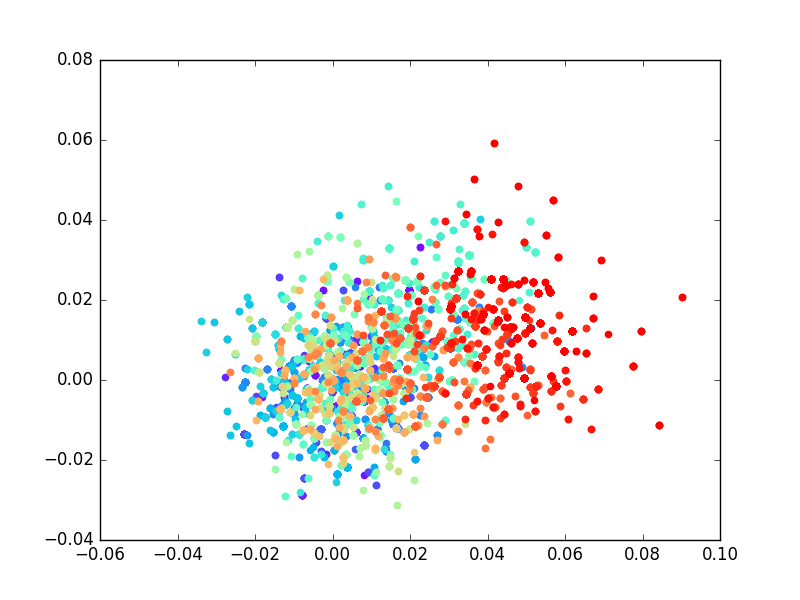
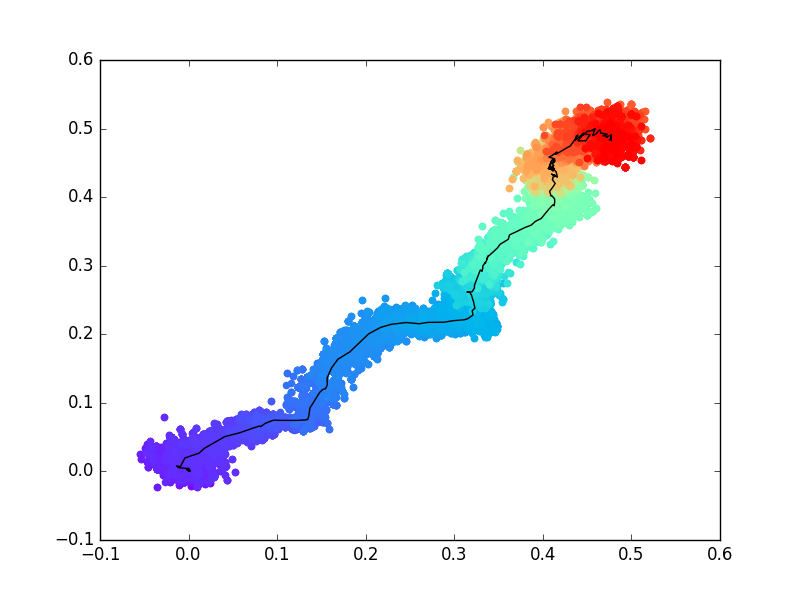
plot adapt to new optimum with mean in black

diff --git a/sgvPlot.py b/sgvPlot.py
@@ -51,11 +51,22 @@ for i in range(len(gen)):
 #     writer = csv.writer(f)
 #     writer.writerows(phenos)
 
-# plot phenotypes
+# plot all phenotypes
 colors = cm.rainbow(np.linspace(0, 1, len(phenos)))
 for i, c in zip(range(len(phenos)), colors):
     plt.scatter(phenos[i][:,0],phenos[i][:,1], color=c)
-# plt.show()
+
+# plot mean phenotypes
+mean_phenos = []
+for i in range(len(phenos)):
+    # plt.plot(np.mean(phenos[i][:,0]),np.mean(phenos[i][:,1]), color='black')
+    # plt.plot(np.mean(phenos[i][:,0]),np.mean(phenos[i][:,1]), color='black')
+    mean_phenos.append(np.mean(phenos[i], axis=0))
+
+mean_pheno = np.array(mean_phenos)
+plt.plot(mean_pheno[:,0],mean_pheno[:,1], color='black')
+
+# save plot
 plt.savefig('%s/plot_%s.png' %(data_dir,sim_id))
 
 

diff --git a/sgvCode.py b/sgvCode.py
@@ -58,7 +58,7 @@ u = 0.001 #mutation probability per genome (0<u<1)
 alpha = 0.01 #mutational sd (positive real number)
 
 N0 = K #initial population size
-maxgen = 2000 #maximum number of generations (positive integer)
+maxgen = 20000 #maximum number of generations (positive integer)
 opt0 = [0] * n #optimum phenotype during burn in
 opt1 = [0.5] * n #optimum phenotype after burn in
 burn_gen = 1000 #number of generations of burn in (<maxgen)
